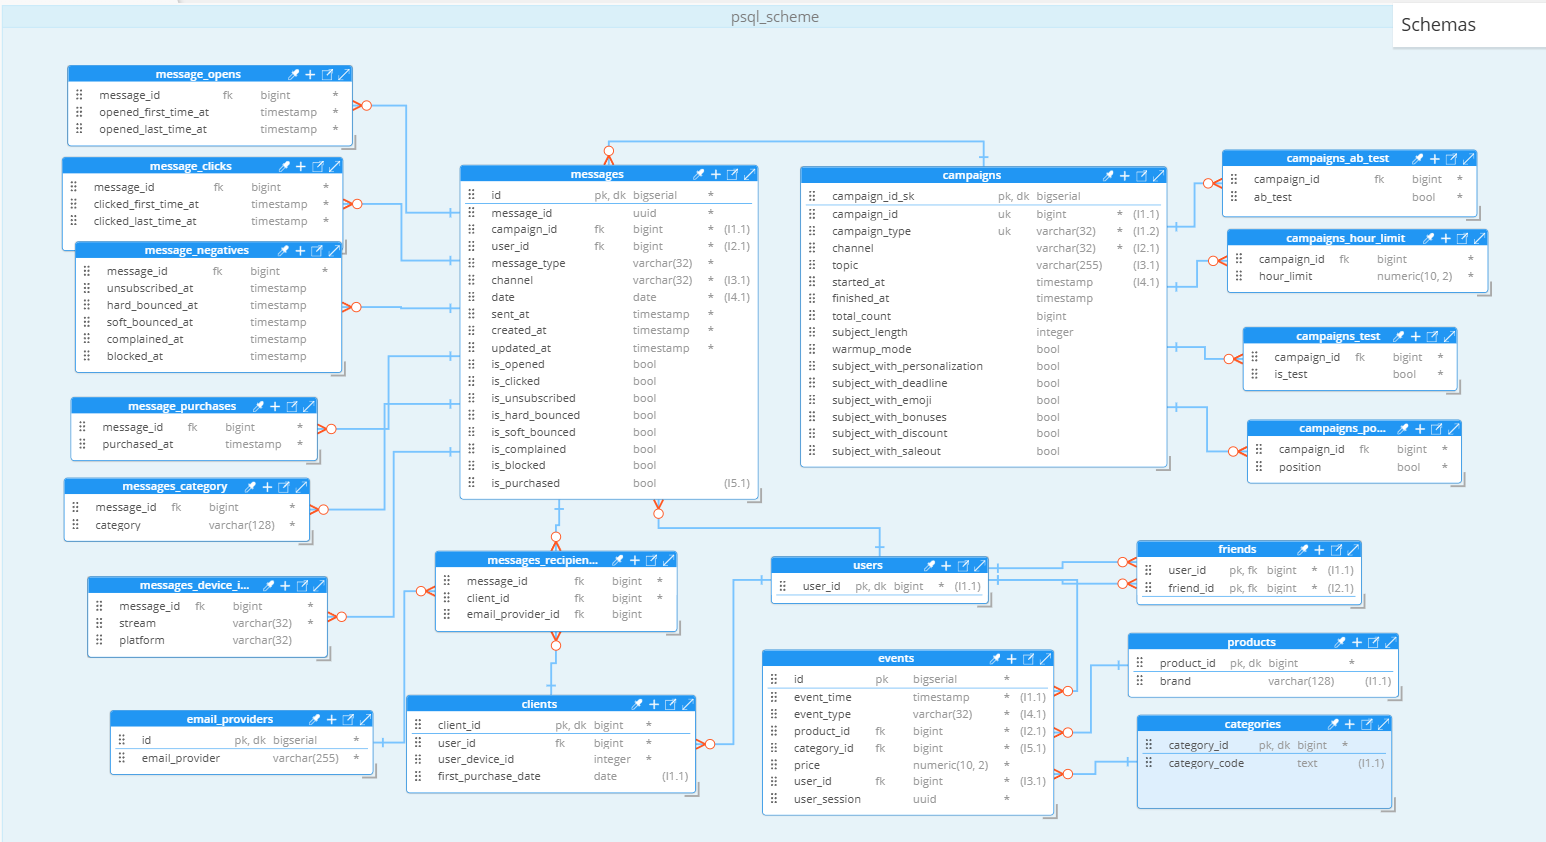
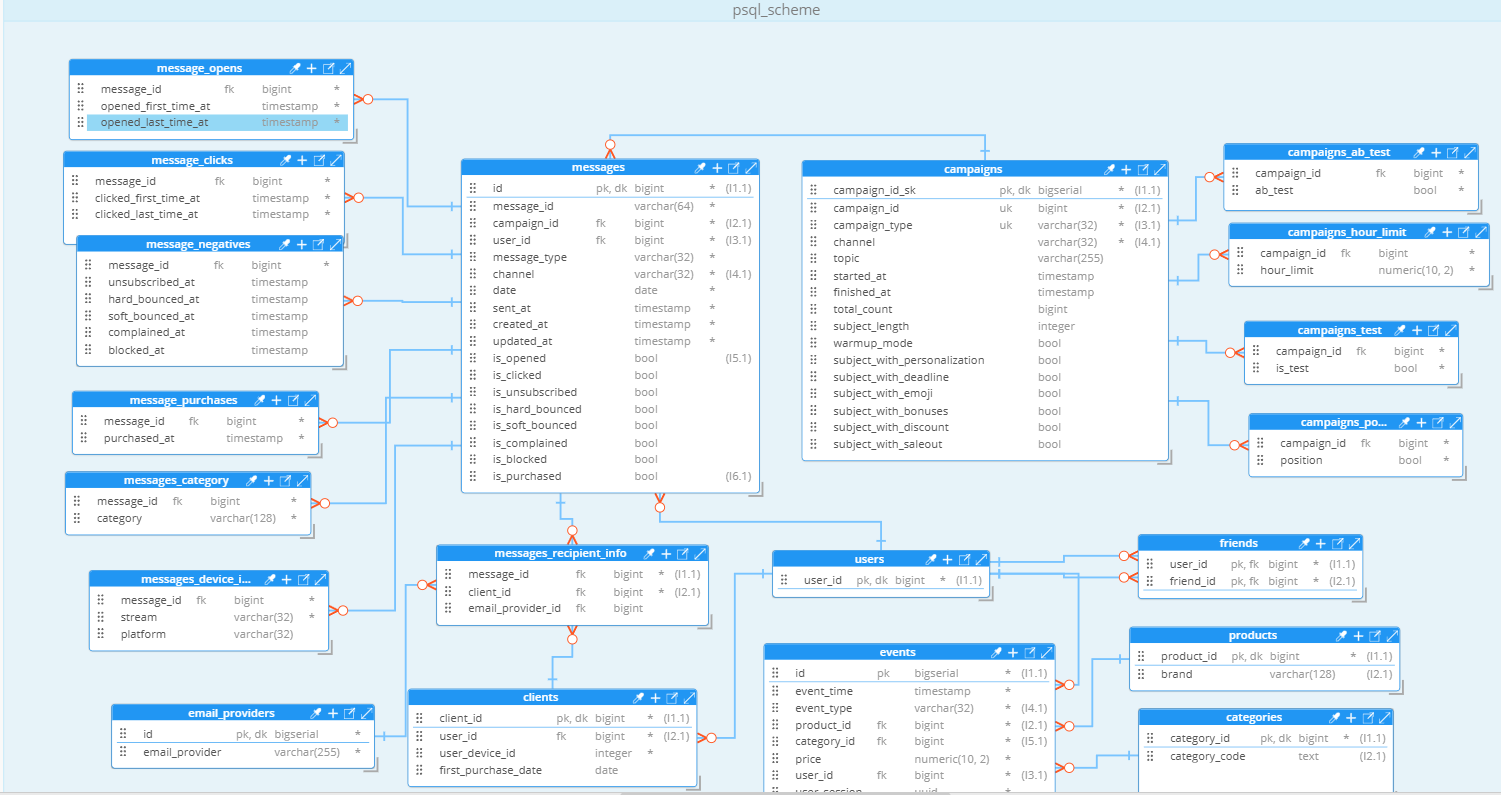
'screenshots_and_fix'

diff --git a/scripts/db_create_load_data/load_data_neo4j.py b/scripts/db_create_load_data/load_data_neo4j.py
@@ -46,7 +46,7 @@ class Neo4jLoader:
     def execute_query(self, query, params=None):
         #Execute a query and return results
         with self.driver.session(database=self.database) as session:
-            return session.run(query, params)
+            return list(session.run(query, params))
 
     def execute_write(self, query, params=None):
         #Execute a write query
@@ -713,15 +713,15 @@ def main():
         # Statistics
         print("\n Database Statistics:")
         stats_query = """
-        MATCH (n)
-        RETURN labels(n)[0] AS label, count(*) AS count
-        UNION ALL
-        MATCH ()-[r]->()
-        RETURN type(r) AS label, count(*) AS count
-        ORDER BY count DESC
-        """
-        result = loader.execute_query(stats_query)
-        for record in result:
+                MATCH (n)
+                RETURN labels(n)[0] AS label, count(*) AS count
+                UNION ALL
+                MATCH ()-[r]->()
+                RETURN type(r) AS label, count(*) AS count
+                ORDER BY count DESC
+                """
+        results = loader.execute_query(stats_query)  # ← Returns list now
+        for record in results:
             print(f"   - {record['label']}: {record['count']:,}")
 
     except Exception as e:
